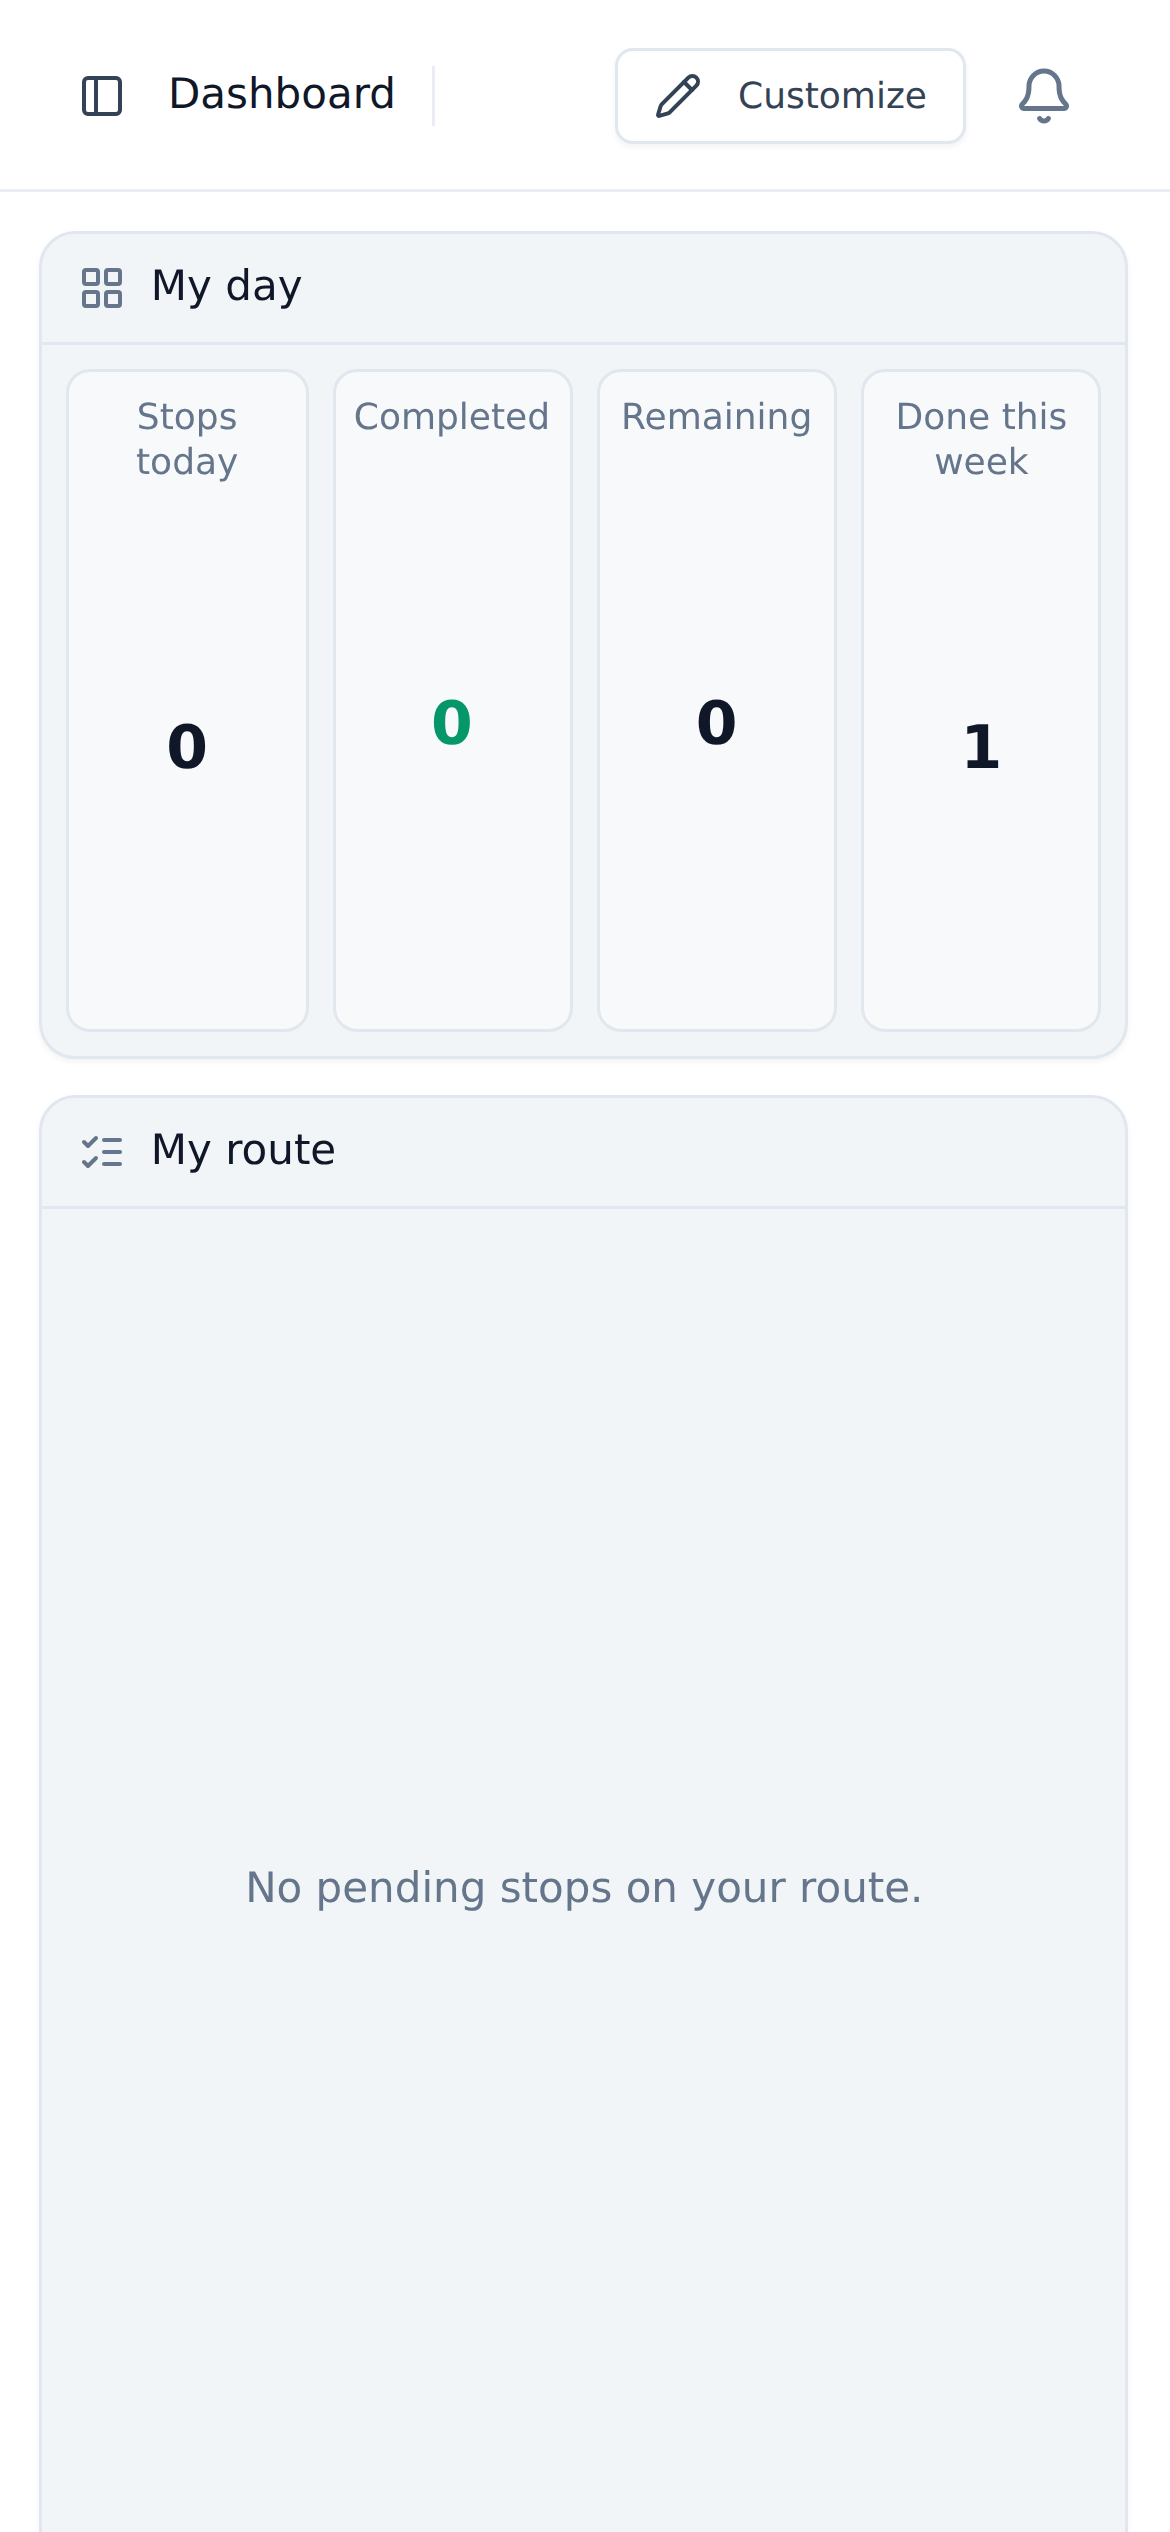
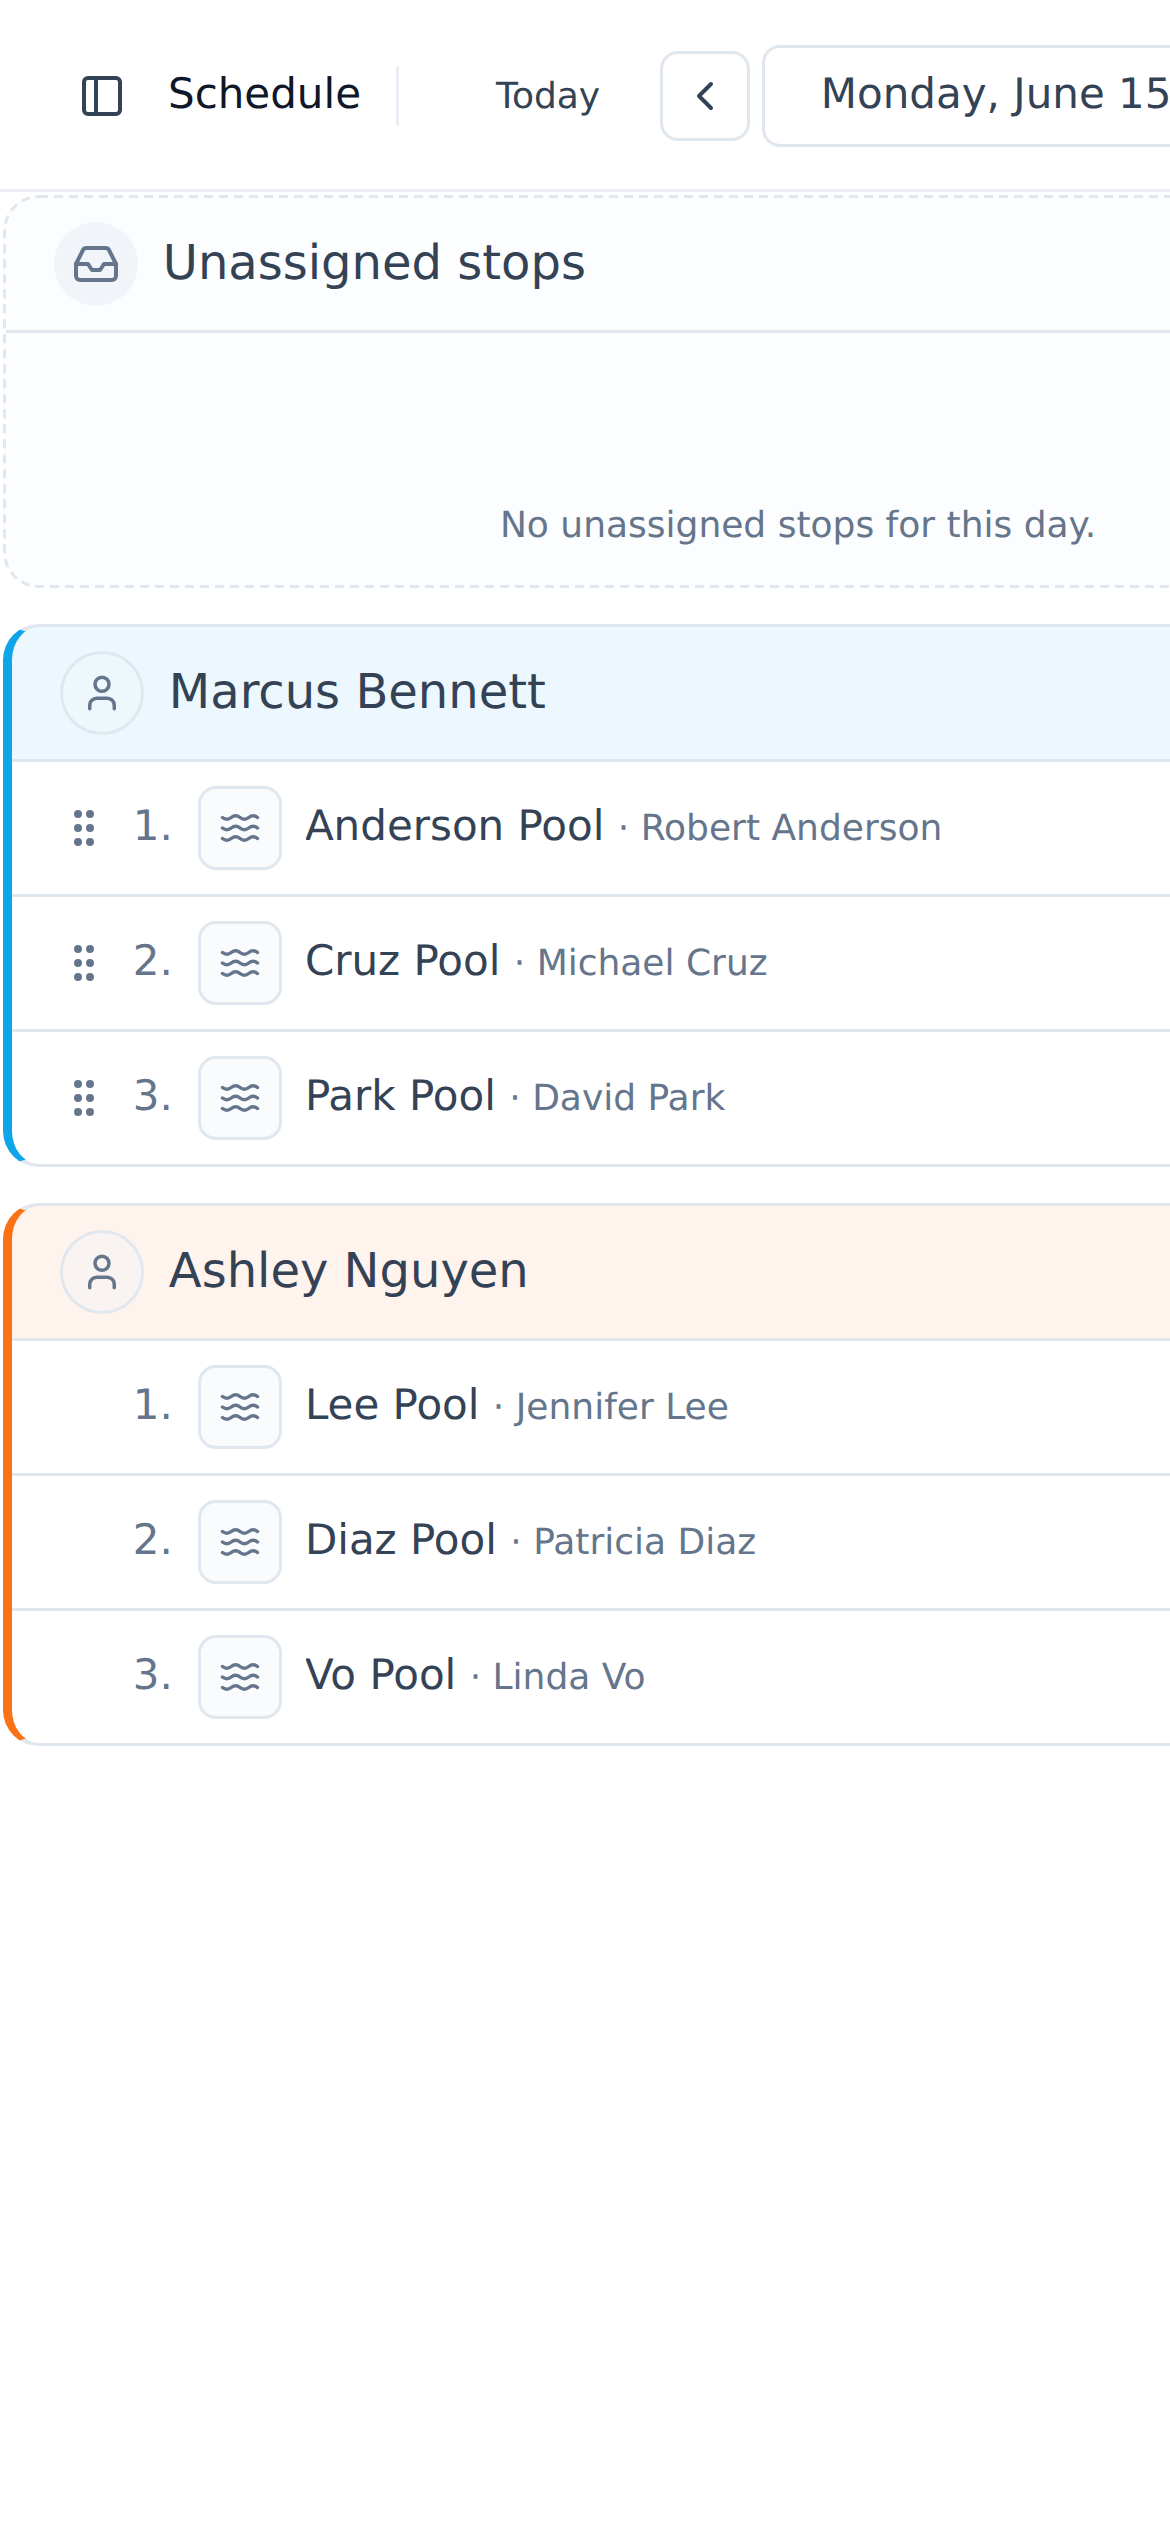
Bigger landing preview; busy route-map screenshot on login; demo geo fix
- Landing hero: the live demo preview is ~25% bigger (wider preview column +
  taller frame).
- Login: the feature screenshot is now the schedule route map for a busy day
  (6 stops across both agents, clustered around the Brunswick HQ), ~25% bigger
  and centered in the panel (was left-anchored). Mobile phone shows the agent's
  color-coded route.
- DemoSeeder: service locations now cluster around the Brunswick HQ (were in
  Orlando, far from the HQ marker) and the week concentrates into a busy Monday
  (3 stops per agent), so fresh seeds reproduce a coherent, populated demo.

diff --git a/resources/js/layouts/AuthLayout.vue b/resources/js/layouts/AuthLayout.vue
@@ -35,21 +35,21 @@ defineProps<{
             </Link>
 
             <!-- Product showcase: the real app, desktop + mobile -->
-            <div class="relative z-10 my-8 flex flex-1 items-center">
-                <div class="relative w-full max-w-lg">
+            <div class="relative z-10 my-8 flex flex-1 items-center justify-center">
+                <div class="relative mx-auto w-full max-w-2xl">
                     <div class="overflow-hidden rounded-xl border border-white/15 shadow-2xl ring-1 ring-black/40 [rotate:-1.5deg]">
                         <div class="flex items-center gap-1.5 bg-slate-800 px-3 py-2">
                             <span class="size-2.5 rounded-full bg-red-400/90"></span>
                             <span class="size-2.5 rounded-full bg-amber-400/90"></span>
                             <span class="size-2.5 rounded-full bg-green-400/90"></span>
                         </div>
-                        <img src="/assets/images/screenshots/dashboard.png" alt="RoutePilot dashboard" class="block w-full" loading="lazy" />
+                        <img src="/assets/images/screenshots/route-map.png" alt="RoutePilot route map" class="block w-full" loading="lazy" />
                     </div>
                     <img
                         src="/assets/images/screenshots/agent-mobile.png"
                         alt="RoutePilot mobile app"
                         loading="lazy"
-                        class="absolute -bottom-6 right-3 w-24 rounded-[1.4rem] border-4 border-slate-800 shadow-2xl [rotate:4deg] sm:w-28"
+                        class="absolute -bottom-6 right-2 h-44 w-24 rounded-[1.4rem] border-4 border-slate-800 object-cover object-top shadow-2xl [rotate:4deg] sm:h-52 sm:w-28"
                     />
                 </div>
             </div>

diff --git a/resources/js/pages/Welcome.vue b/resources/js/pages/Welcome.vue
@@ -129,7 +129,7 @@ const pricingPoints = ['$0.50 / pool over 50', '$10 / agent over 2', '14-day fre
                     ></div>
                 </div>
 
-                <div class="relative z-10 mx-auto grid w-full max-w-6xl items-center gap-10 lg:grid-cols-2 lg:gap-12">
+                <div class="relative z-10 mx-auto grid w-full max-w-7xl items-center gap-10 lg:grid-cols-[1fr_1.3fr] lg:gap-12">
                     <!-- Left: copy -->
                     <div class="text-center lg:text-left">
                         <span
@@ -174,7 +174,7 @@ const pricingPoints = ['$0.50 / pool over 50', '$10 / agent over 2', '14-day fre
                                     >routepilot.pro/t/demo</span
                                 >
                             </div>
-                            <div class="relative h-[440px] overflow-hidden bg-white">
+                            <div class="relative h-[550px] overflow-hidden bg-white">
                                 <iframe
                                     src="/t/demo"
                                     title="Live RoutePilot demo site"

diff --git a/database/seeders/DemoSeeder.php b/database/seeders/DemoSeeder.php
@@ -46,8 +46,10 @@ class DemoSeeder extends Seeder
         $tenant = Tenant::factory()->create([
             'name' => 'Demo Company', 'slug' => 'demo',
             'brand_color' => '#0ea5e9',
-            'settings' => ['hq_lat' => 28.5383, 'hq_lng' => -81.3792], // Orlando, FL
+            'address_line1' => '1937 6th St', 'city' => 'Brunswick', 'state' => 'GA', 'postal_code' => '31520',
+            'settings' => ['hq_lat' => 31.1805, 'hq_lng' => -81.4931], // Brunswick, GA
         ]);
+        $tenant->forceFill(['lat' => 31.1805228, 'lng' => -81.4930654])->save();
 
         // Bind tenant context so tenant-owned models auto-fill tenant_id.
         app()->instance('tenant', $tenant);
@@ -99,7 +101,6 @@ class DemoSeeder extends Seeder
         }
 
         $firstCustomer = null;
-        $days = ['monday', 'tuesday', 'wednesday', 'thursday', 'friday'];
         $names = [
             ['Robert', 'Anderson'], ['Jennifer', 'Lee'], ['Michael', 'Cruz'], ['Patricia', 'Diaz'],
             ['David', 'Park'], ['Linda', 'Vo'], ['James', 'Khan'], ['Maria', 'Flores'],
@@ -108,7 +109,7 @@ class DemoSeeder extends Seeder
         foreach ($names as $i => [$first, $last]) {
             $customer = Customer::factory()->for($tenant)->create([
                 'first_name' => $first, 'last_name' => $last,
-                'email' => strtolower($first).'@example.test', 'phone' => '407-555-01'.str_pad((string) $i, 2, '0', STR_PAD_LEFT),
+                'email' => strtolower($first).'@example.test', 'phone' => '912-555-01'.str_pad((string) $i, 2, '0', STR_PAD_LEFT),
                 'onboarded_at' => now()->subMonths(3),
             ]);
 
@@ -125,15 +126,20 @@ class DemoSeeder extends Seeder
                 'name' => $last.' Pool', 'volume_gallons' => 12000 + $i * 1500,
                 'sanitizer_type' => $i % 3 === 0 ? 'salt' : 'chlorine', 'has_heater' => $i % 2 === 0,
             ]);
+            // Cluster service locations around the Brunswick HQ so route maps read
+            // as one tight territory (not scattered across the state).
             ServiceLocation::factory()->for($pool)->create([
-                'city' => 'Orlando', 'state' => 'FL',
-                'lat' => 28.50 + $i * 0.012, 'lng' => -81.42 + $i * 0.010,
+                'city' => 'Brunswick', 'state' => 'GA',
+                'lat' => round(31.205 - ($i % 4) * 0.016 + intdiv($i, 4) * 0.004, 6),
+                'lng' => round(-81.515 + ($i % 4) * 0.014 + intdiv($i, 4) * 0.010, 6),
                 'gate_code' => (string) (1000 + $i * 7),
             ]);
 
+            // Concentrate the week so a couple of days are genuinely busy across
+            // both agents — Monday gets 6 stops (3 each), Tuesday the rest.
             ServiceSubscription::factory()->for($tenant)->for($pool)->for($weekly)->create([
                 'assigned_agent_id' => $agents[$i % 2]->id,
-                'frequency' => 'weekly', 'preferred_day' => $days[$i % 5], 'status' => 'active',
+                'frequency' => 'weekly', 'preferred_day' => $i < 6 ? 'monday' : 'tuesday', 'status' => 'active',
             ]);
 
             // A couple of recent completed visits with readings for history/health.
